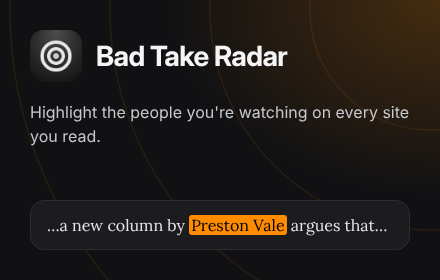
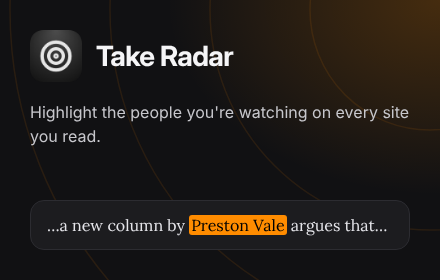
Update store assets for the Take Radar rename
Promo tiles and listing text now use the new name and the new manifest
description.

Claude-Session: https://claude.ai/code/session_01JDEuBxFeGgELkVaHR17Sva

Changed region(s): [[0.2068, 0.1429, 0.65, 0.2571]]

diff --git a/store-assets/store-listing.md b/store-assets/store-listing.md
@@ -1,13 +1,13 @@
-# Chrome Web Store listing: Bad Take Radar
+# Chrome Web Store listing: Take Radar
 
 ## Store listing tab
 
 **Summary** (taken from the manifest `description`, 132 characters max)
-> Highlights signatories of the Harper's Letter and any other people who you think have bad takes on all websites.
+> Highlights the people you're keeping an eye on, on every website you visit.
 
 **Description**
 
-Bad Take Radar highlights the people you're keeping an eye on, on every website you visit.
+Take Radar highlights the people you're keeping an eye on, on every website you visit.
 
 Make a list of names, for example columnists whose takes you'd rather skip, writers you always want to read, or anyone else. Each time one of those names appears on a page, it's highlighted in that list's style. Hover over a highlight to see which list it came from.
 
